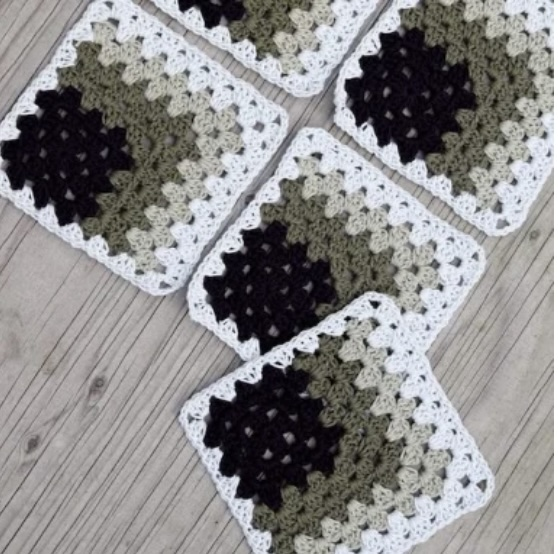
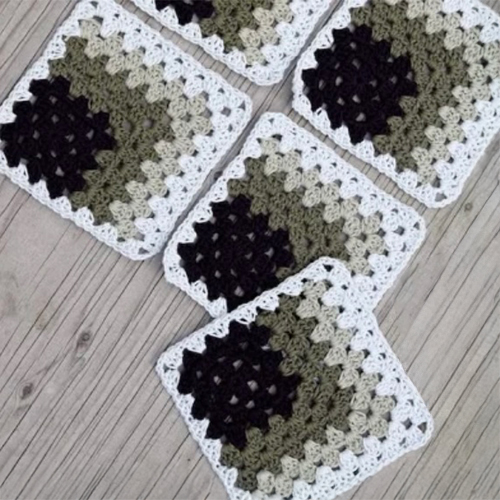
kalender tekst

diff --git a/kode/kalender.html b/kode/kalender.html
@@ -18,6 +18,9 @@
 <!-----------Header & Navigation----------->
     <header>
     <a href="index.html"><img class="logo" src="img/logo.png" alt="Logo"></a>
+
+
+    
   
     <nav title="hoved navigation" class="hovednav">
 
@@ -39,6 +42,8 @@
             <li><a href="#">Om os </a></li>
         </ul>
     </nav>
+
+
 
     <button id="bars" aria-label=" Åben navigation" aria-controls="menu" >
             <i class="fa-solid fa-bars"></i>
@@ -68,9 +73,9 @@
     <section>
         <div class="kalendervelkomst">
             <h2 class="fællesskab">Meget mere end garn!</h2>
-            <p class="information">Hos Garn & Craft mener vi at kreative hoveder tænker bedst sammen.</p> 
-            <p class="information">Derfor kan du tjekke vores spændende workshops, kurser og arrangementer ud her.</p>
-            <p class="information1">Bemærk - nogle af arrangementerne er endda gratis!<br>Vi glæder os til at se dig.</p>
+            <p class="information">Hos Garn & Craft mener vi at kreative hoveder tænker bedst sammen.
+            Derfor kan du tjekke vores spændende workshops, kurser og arrangementer ud her. <br>
+            Bemærk - nogle af arrangementerne er endda gratis!<br><strong> glæder os til at se dig!</strong></p>
         </div>
 
         <details class="detailsgul">

diff --git a/kode/css/style.css b/kode/css/style.css
@@ -136,7 +136,6 @@ body{
 }
 
  .kalendervelkomst{
-  height: 500px;
   display: flex;
   flex-direction: column;
   justify-content: center;
@@ -497,19 +496,17 @@ h2{
   padding-right: 1.5em;
   font-weight: bold;
   padding-bottom: 1em;
+  color: #FE7F2D;
 }
 
 .information{
-  line-height: 1.5em;
+  line-height: 2em;
   padding: 0 2em;
   padding-bottom: 0.5em;
+  text-align: left;
 }
 
-.information1{
-  line-height: 1.5em;
-  padding-left: 2em;
-  padding-bottom: 1.5em;
-}
+
 
 details{
   padding-bottom: 2em;
@@ -759,9 +756,21 @@ section{
     left: 32%;
     width: 40vw;
     text-align: center;
-    padding-top: 1em;
+    padding: 1em;
     text-shadow: 1px 1px rgba(0, 0, 0, 0.218);
   }
+
+  .kalendervelkomst{
+  min-height: 400px;
+  height: auto;
+  max-width: 500px;
+  display: flex;
+  flex-direction: column;
+  justify-content: center;
+  align-items: center;
+  margin-left: auto;
+  margin-right: auto;
+ }
 
   .banner h1{
     font-size: 80px;
